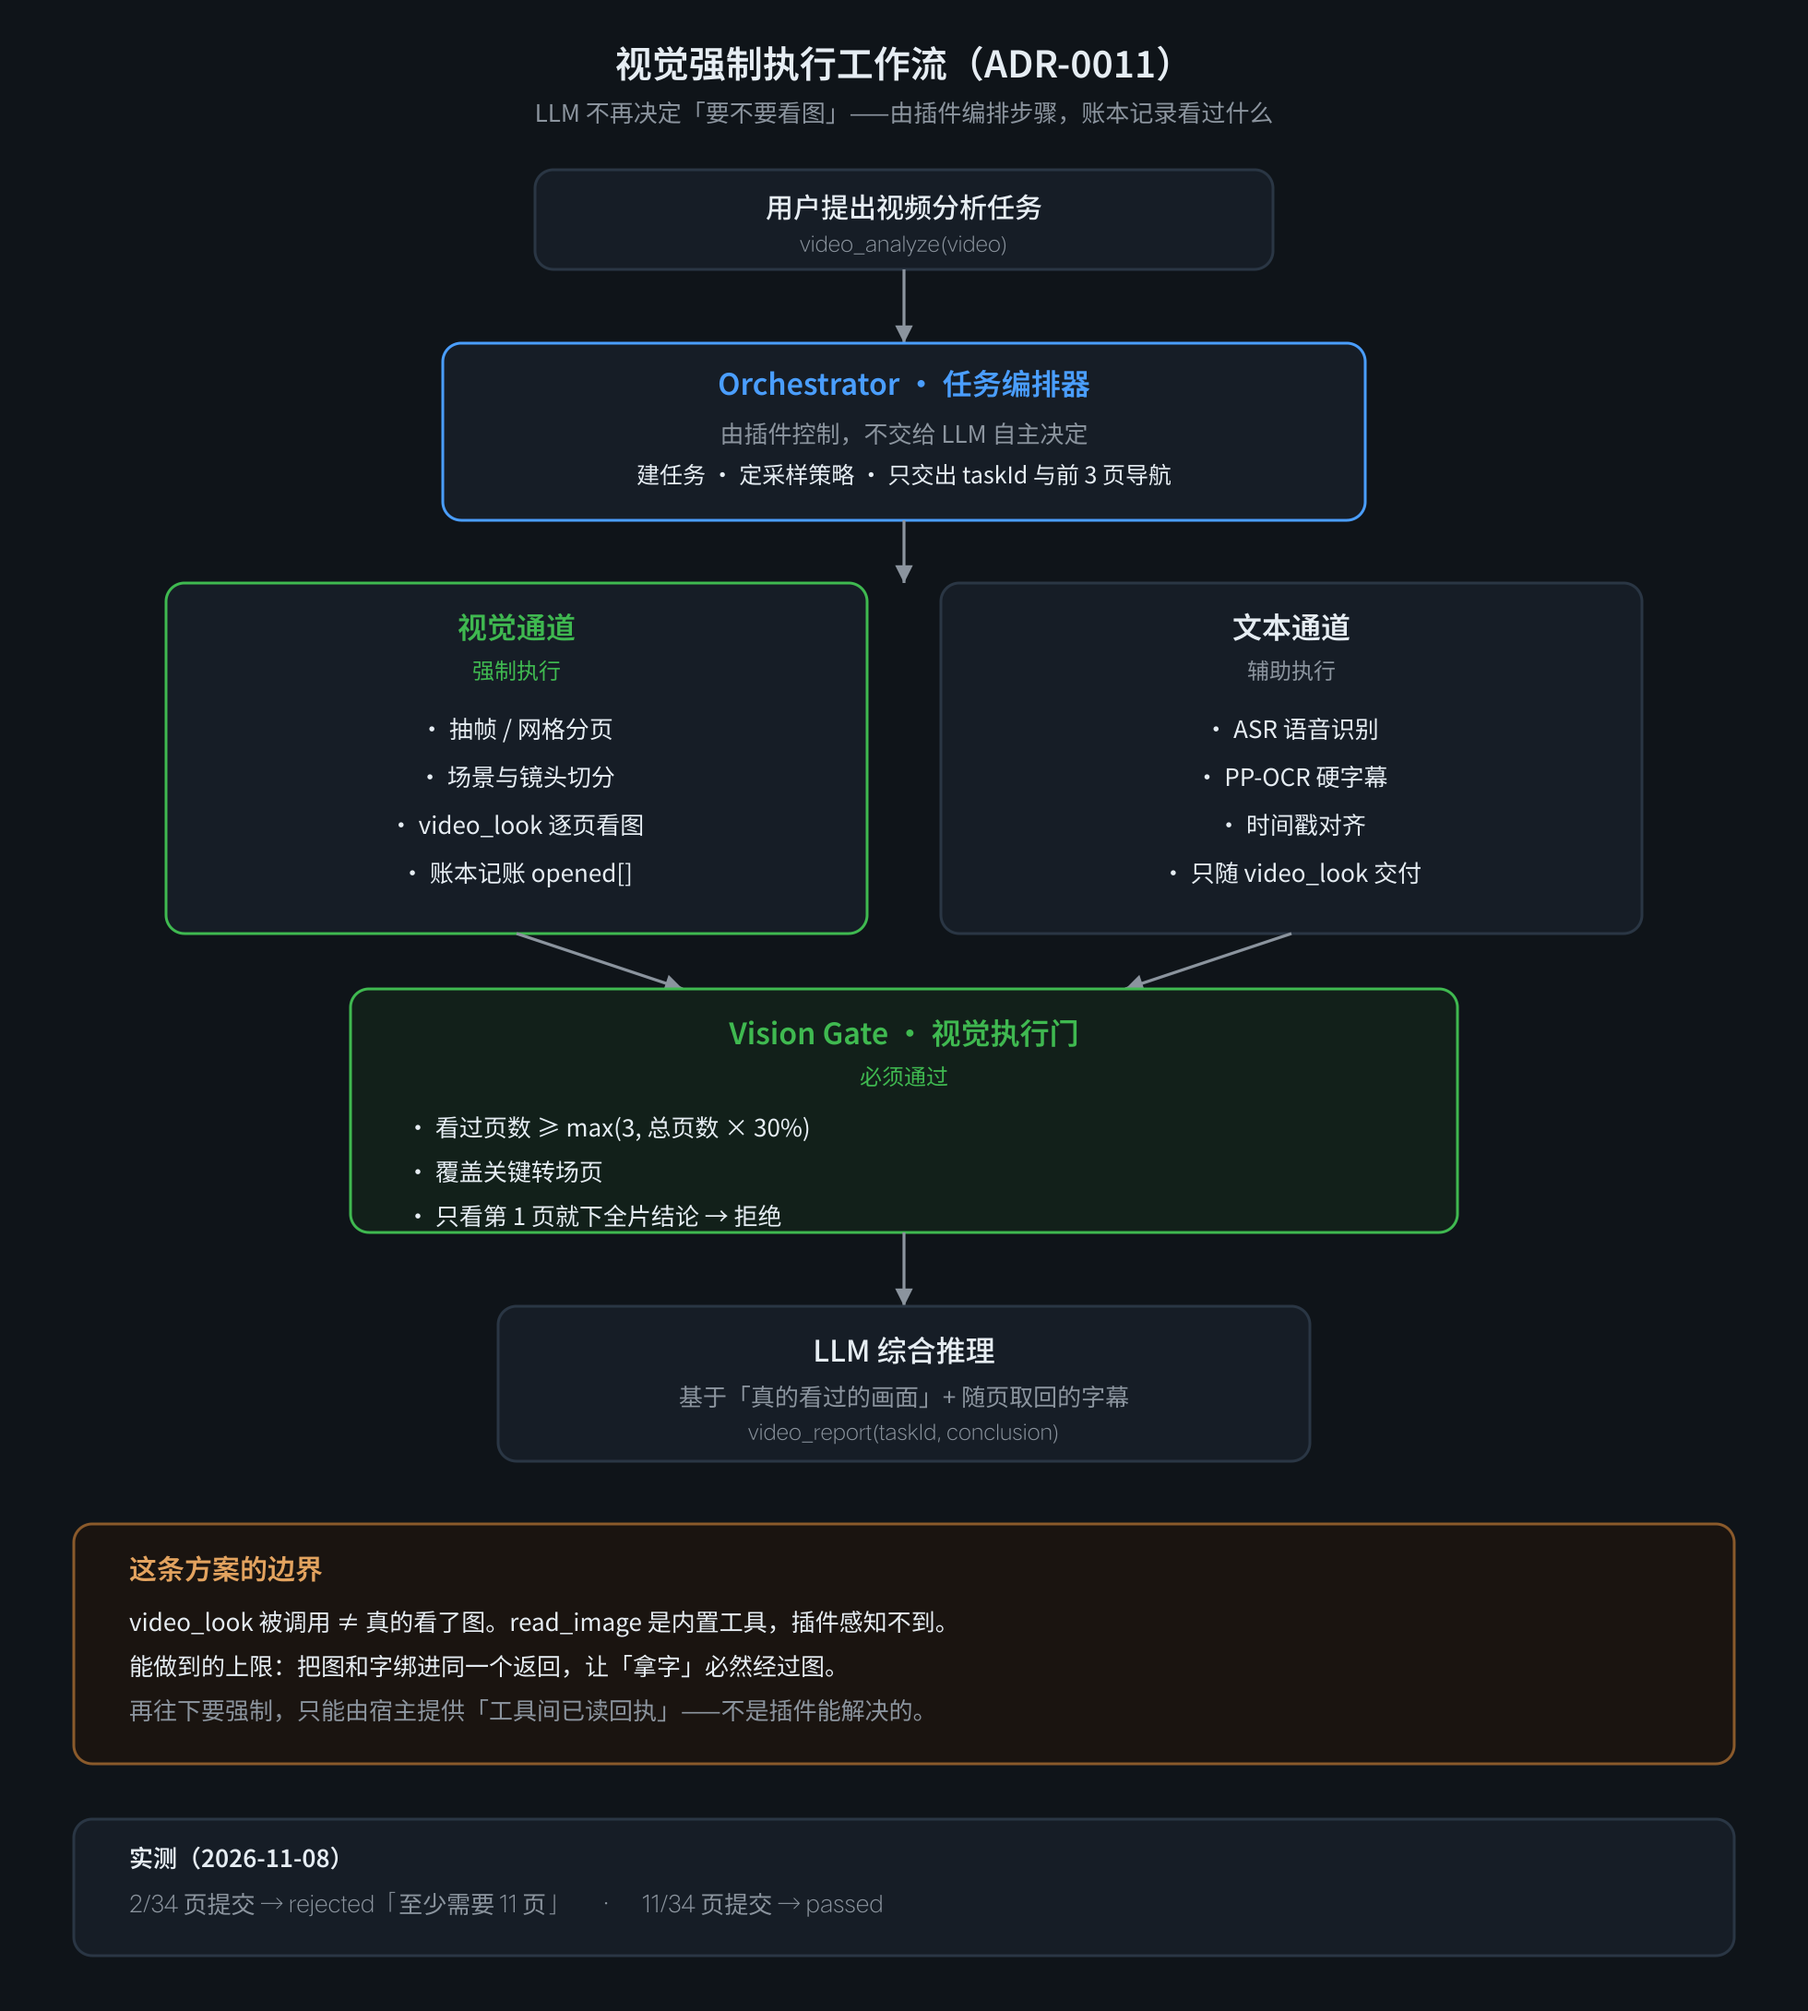
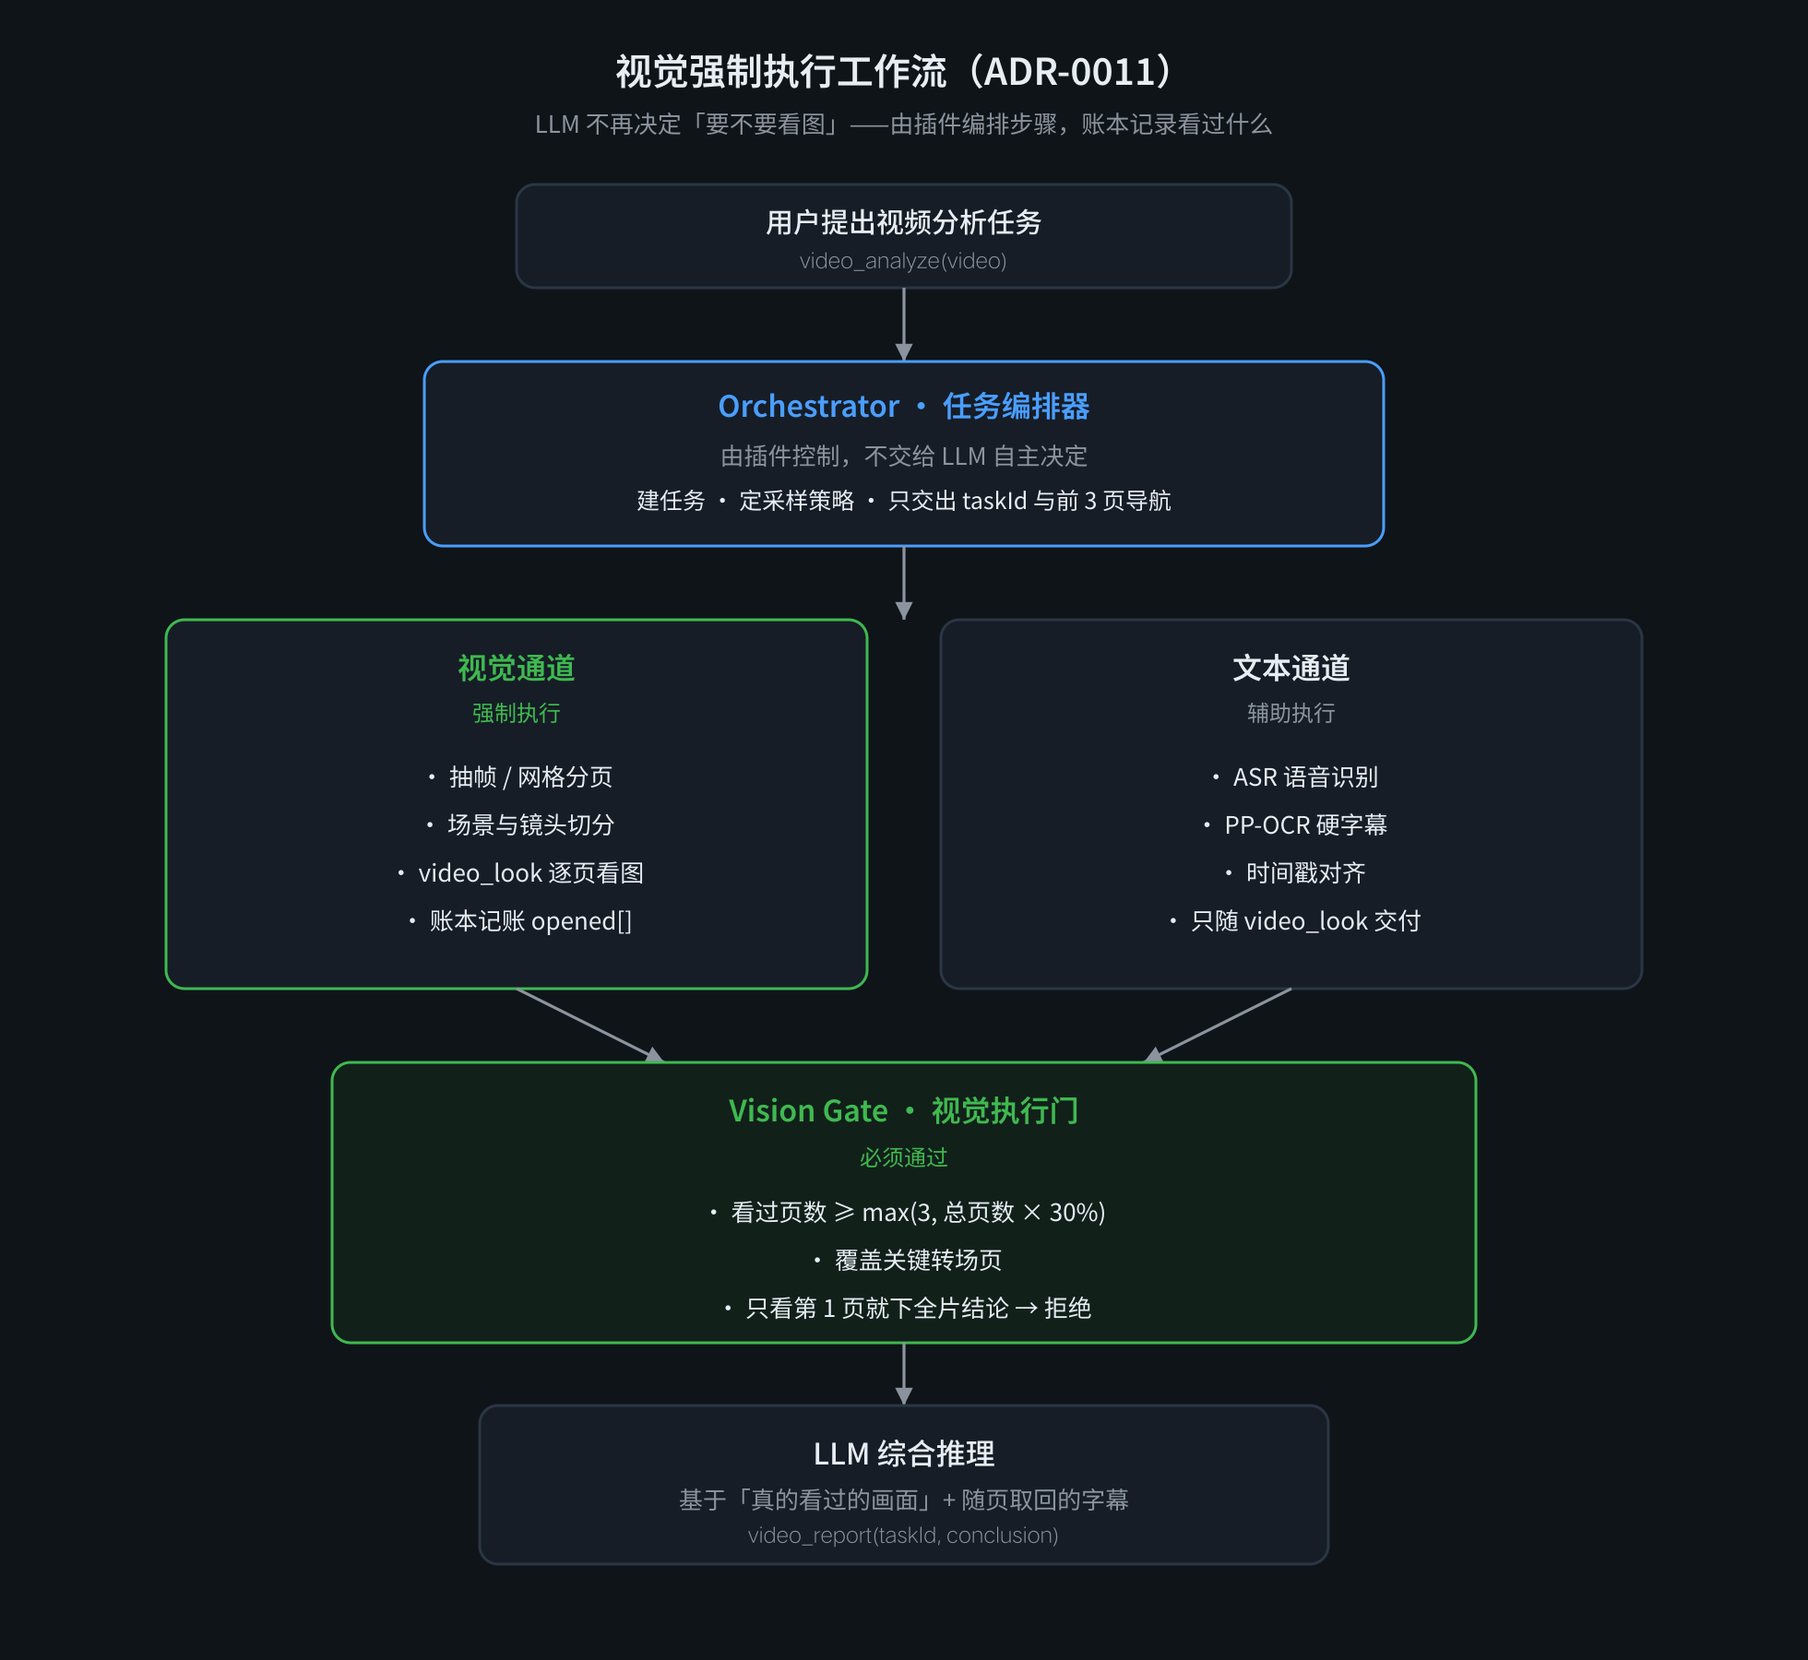
docs(adr-0011): 架构图精简为纯主流程，框内文字居中
按指挥官要求：
- 去掉底部的「这条方案的边界」与「实测」两个框，只留主流程五段
- 框内文字统一居中（原来是左对齐列表），不再贴着框边
- Vision Gate 框加高到 152，最后一行不再压框线；画布高度 1000 → 900
- ADR 正文里那段纯文本 ASCII 架构删掉（图已经表达同一件事），
  换成一句补充说明：两个通道不是独立流水线，是同一批抽帧产物的两种交付方式

diff --git a/docs/ADR-0011-vision-gate.md b/docs/ADR-0011-vision-gate.md
@@ -43,24 +43,8 @@ Vision Gate（视觉执行门）    没有视觉证据就不给综合结论
 Evidence Ledger（证据账本）  看过哪几页由服务端记录，不由 LLM 声称
 ```
 
-参考指挥官给出的架构：
-
-![视觉强制执行工作流](diagrams/vision-gate@2x.png)
-
-```
-用户任务
-  ↓
-Orchestrator：创建任务、确定采样策略、创建必需步骤
-  ↓
-┌────────────────┬────────────────┐
-│ 视觉通道（强制） │ 文本通道（辅助） │
-│ 抽帧/场景/画面   │ ASR/OCR/时间戳  │
-└────────────────┴────────────────┘
-  ↓
-Vision Gate：抽帧完成？实际执行视觉分析？有有效结果？覆盖关键段？
-  ↓
-LLM 综合推理（综合视觉证据 + 文本）
-```
+流程图见上方。这里的「视觉通道」与「文本通道」不是两条独立的流水线，**它们是同一批抽帧产物的两种交付方式**：
+画面必须由 `video_look` 一页页交付，文字则挂在那页的同一个返回里。
 
 ## 工具设计
 
